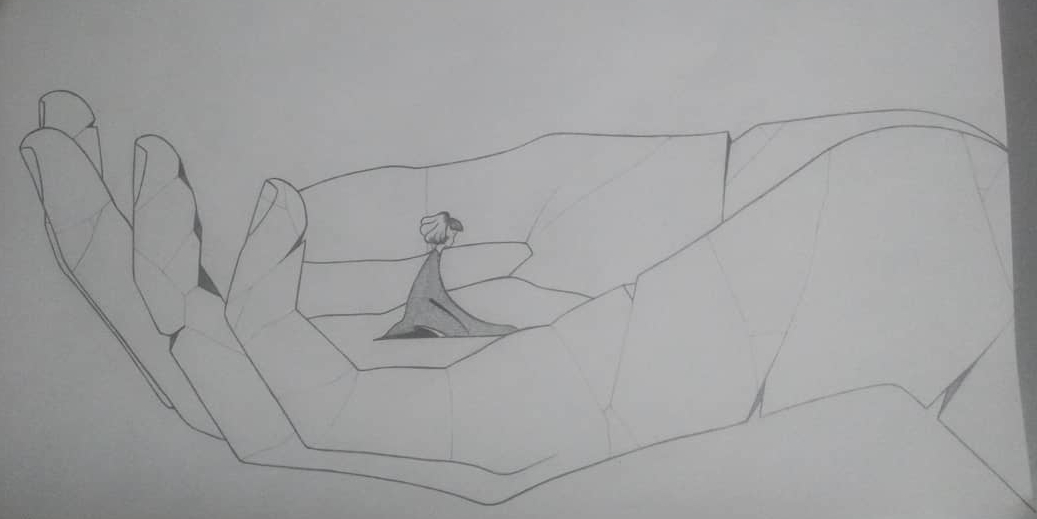
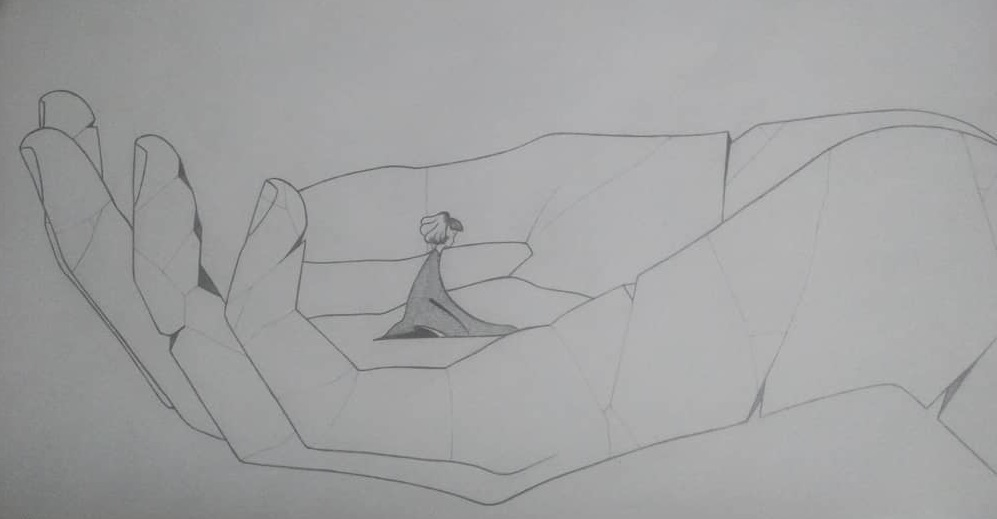
Adiciona imagens com efeito parallax e finaliza projeto

diff --git a/HTML5 e CSS3/Módulo 3/projeto/projeto-poesia.html b/HTML5 e CSS3/Módulo 3/projeto/projeto-poesia.html
@@ -8,14 +8,10 @@
 </head>
 <body>
     <header>
-        <h1>anjo</h1>
+        <a href="https://www.instagram.com/p/CisaSaKLjGb/" target="_blank">
+            <h1>anjo</h1>
+        </a>
         <p>Poema e ilustrações por <a href="https://www.instagram.com/mhrosareis/" target="_blank">Marcelo Rosa</a></p>
-        <!--
-        [poema: https://www.instagram.com/p/CisaSaKLjGb/]
-        [raven: https://www.instagram.com/p/CBupd4RlKn3/?img_index=1]
-        [wisp: https://www.instagram.com/p/CF2-S2iM1KE/]
-        fonte gótica
-        -->
     </header>
 
     <section class="normal">
@@ -31,21 +27,23 @@
         </p>
     </section>
 
-    <section class="imagem">
-        <div class="fundo">
-            <p>
-                sei bem... tamanha beleza nunca dura muito. <br>
-                porém a certeza, fiel, divina e pura, <br>
-                não arranha as nuvens, <br>
-                nem toca a moldura.
-            </p>
-            <p>
-                sobre a ruína do tempo – amaldiçoado, <br>
-                contemplo-a por dentro... pelada. <br>
-                pecado, magia obscura.
-            </p>
-        </div>
-    </section>
+    <a href="https://www.instagram.com/p/CBupd4RlKn3/?img_index=1" target="_blank">
+        <section class="imagem" id="img1">
+            <div class="fundo">
+                <p>
+                    sei bem... tamanha beleza nunca dura muito. <br>
+                    porém a certeza, fiel, divina e pura, <br>
+                    não arranha as nuvens, <br>
+                    nem toca a moldura.
+                </p>
+                <p>
+                    sobre a ruína do tempo – amaldiçoado, <br>
+                    contemplo-a por dentro... pelada. <br>
+                    pecado, magia obscura.
+                </p>
+            </div>
+        </section>
+    </a>
 
     <section class="normal">
         <p>
@@ -72,22 +70,24 @@
         </p>
     </section>
 
-    <section class="imagem">
-        <div class="fundo">
-            <p>
-                és doença, mas me curas! <br>
-                intensa e colorida, calada intimidade: <br>
-                dança selvagem e forte, <br>
-                irrompe a branda e branca oração.
-            </p>
-            <p>
-                à tua imagem, conforme tua semelhança. <br>
-                me deixas cair em tentação, <br>
-                quanta sorte... <br>
-                és sentença – de vida!
-            </p>
-        </div>
-    </section>
+    <a href="https://www.instagram.com/p/CF2-S2iM1KE/" target="_blank">
+        <section class="imagem" id="img2">
+            <div class="fundo">
+                <p>
+                    és doença, mas me curas! <br>
+                    intensa e colorida, calada intimidade: <br>
+                    dança selvagem e forte, <br>
+                    irrompe a branda e branca oração.
+                </p>
+                <p>
+                    à tua imagem, conforme tua semelhança. <br>
+                    me deixas cair em tentação, <br>
+                    quanta sorte... <br>
+                    és sentença – de vida!
+                </p>
+            </div>
+        </section>
+    </a>
 
     <section class="normal">
         <p>

diff --git a/HTML5 e CSS3/Módulo 3/projeto/estilo/style.css b/HTML5 e CSS3/Módulo 3/projeto/estilo/style.css
@@ -34,7 +34,7 @@ header, footer {
     padding: 20px;
 }
 
-header > h1 {
+header h1 {
     padding: 20px 0 10px 0;
     font: 500 50px var(--fonte-titulo);
 }
@@ -50,12 +50,12 @@ header a, footer a {
     white-space: nowrap;
 }
 
-header a:hover, footer a:hover {
+header > p > a:hover, footer a:hover {
     text-decoration: underline;
 }
 
 section {
-    padding: 5vh 10vh;
+    padding: 5vh 5vw;
     line-height: 1.5rem;
 }
 
@@ -66,18 +66,34 @@ section.normal {
 
 section.imagem {
     background-color: #222222;
-    background-position: right center;
     color: white;
+    box-shadow: inset 0 0 10px 0px black;
+    background-size: cover;
+    background-attachment: fixed;
+    background-position: center center;
+}
+
+section#img1 {
+    background-image: url("../imagens/raven.png");
+    text-align: left;
+}
+
+section#img2 {
+    background-image: url("../imagens/wisp.jpg");
     text-align: right;
 }
 
 div.fundo {
     display: inline-block;
-    background-color: #00000050;
+    background-color: #000000aa;
 }
 
 section p {
     padding: 20px;
+}
+
+section.imagem p {
+    text-shadow: 1px 1px 1px black;
 }
 
 footer > p {
